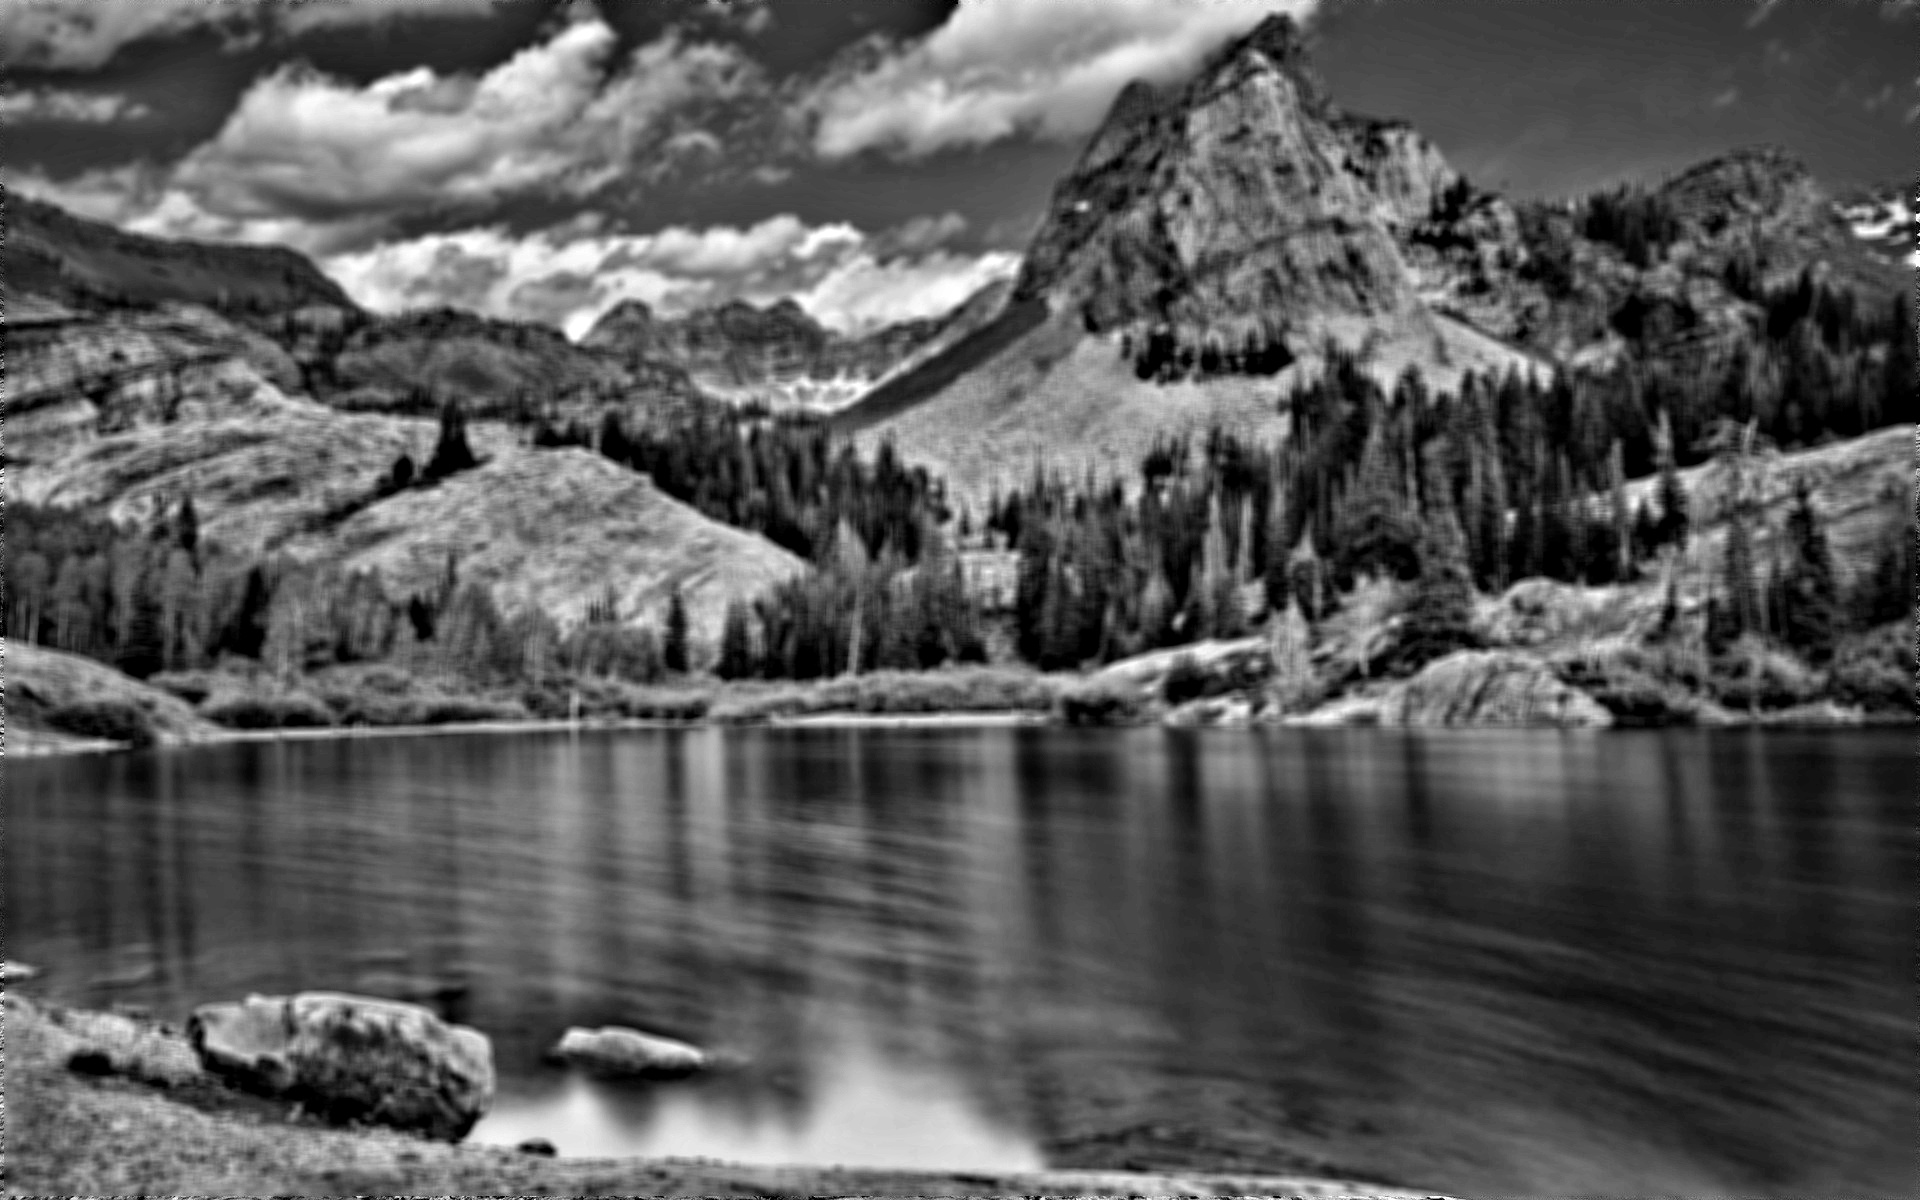
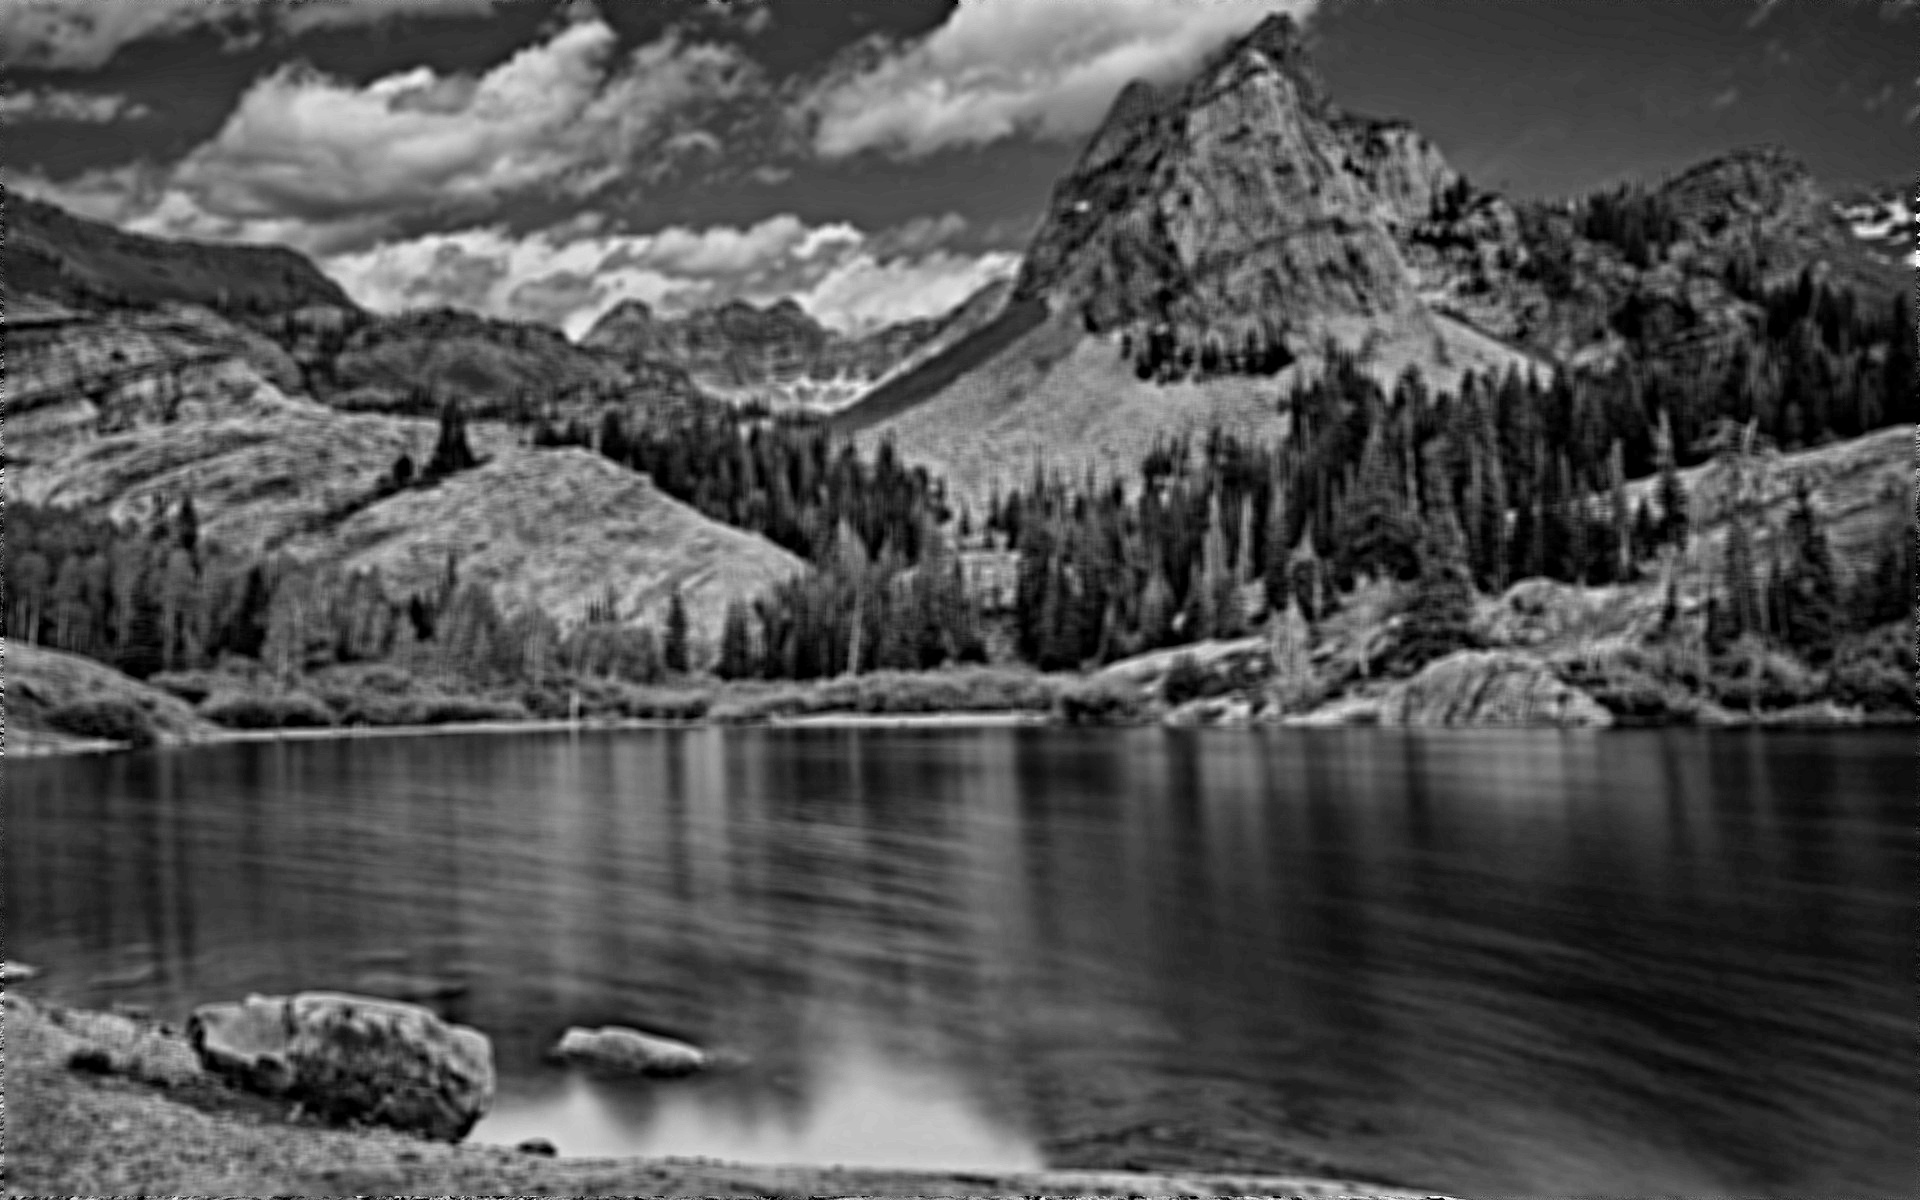
Assignment Done

diff --git a/src/Noise.java b/src/Noise.java
@@ -54,11 +54,9 @@ public class Noise {
 	
 	//UnSharp Filter
 	public static Mat unsharpFilter(Mat img) {
-		Mat result = img.clone();
+		Mat result = new Mat();
 		Mat smoothed = new Mat();
-//		Mat edge = SobelDetector(img);
-//		Core.addWeighted(img, 1, edge, -0.7, 0, result);
-		Imgproc.blur(img, smoothed, new Size(5, 5));
+		Imgproc.GaussianBlur(img, smoothed, new Size(0,0), 10);
 		Core.addWeighted(img, 1.7, smoothed, -0.7, 0, result);
 		return result;
 	}
@@ -154,9 +152,6 @@ public class Noise {
 		if(blurry > 75.0) {
 			result = unsharpFilter(result);
 			System.out.println("Unsharp Filter is applied");
-			System.out.println("Unsharp Filter is applied After" + calculateBlur(SobelDetector(result)));
-
-
 		}
 		
 		double intensityRange = checkRange(result);
